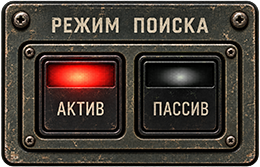
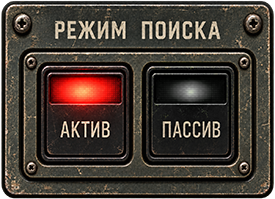
Active/passive switch

diff --git a/UfoDetector/Views/DetectorPage.xaml b/UfoDetector/Views/DetectorPage.xaml
@@ -136,34 +136,26 @@
             <!-- Right column: Controls panel -->
             <Grid Grid.Column="1" RowDefinitions="Auto, *">
 
-                <!-- Mode toggle: LED + Button (T039) -->
-                <Grid Grid.Row="0" ColumnDefinitions="Auto, *" Padding="2" Margin="2,2,2,6">
-                    <!-- LED indicator: green=АКТИВ, amber=ПАССИВ -->
-                    <BoxView Grid.Column="0"
-                             WidthRequest="10" HeightRequest="10" CornerRadius="0"
-                             VerticalOptions="Center" Margin="0,0,8,0"
-                             Color="{StaticResource StatusAmber}">
-                        <BoxView.Style>
-                            <Style TargetType="BoxView">
-                                <Setter Property="Color" Value="{StaticResource StatusAmber}"/>
+                <!-- Mode toggle: background image only, no text/border/LED (T039) -->
+                <!-- Plain Image + tap gesture (not ImageButton) to avoid the native pressed/ripple flash -->
+                <Grid Grid.Row="0" Padding="2" Margin="70,90,2,6">
+                    <Image Source="passive_mode.png"
+                           Aspect="AspectFit">
+                        <Image.GestureRecognizers>
+                            <TapGestureRecognizer Command="{Binding ToggleModeCommand}" />
+                        </Image.GestureRecognizers>
+                        <Image.Style>
+                            <Style TargetType="Image">
+                                <Setter Property="Source" Value="passive_mode.png"/>
                                 <Style.Triggers>
-                                    <DataTrigger TargetType="BoxView"
+                                    <DataTrigger TargetType="Image"
                                                  Binding="{Binding IsActiveMode}" Value="True">
-                                        <Setter Property="Color" Value="{StaticResource PhosphorGreen}"/>
+                                        <Setter Property="Source" Value="active_mode.png"/>
                                     </DataTrigger>
                                 </Style.Triggers>
                             </Style>
-                        </BoxView.Style>
-                    </BoxView>
-                    <Button Grid.Column="1"
-                            Text="{Binding ModeLabel}"
-                            Command="{Binding ToggleModeCommand}"
-                            FontFamily="ShareTechMono" FontSize="20"
-                            BackgroundColor="Transparent"
-                            BorderColor="{StaticResource PhosphorGreenDim}"
-                            BorderWidth="1"
-                            TextColor="{StaticResource PhosphorGreen}"
-                            Padding="4,4" />
+                        </Image.Style>
+                    </Image>
                 </Grid>
 
                 <!-- Vertical sliders (T038): AbsoluteLayout gives manual X/Y placement; container Margin/size and each
